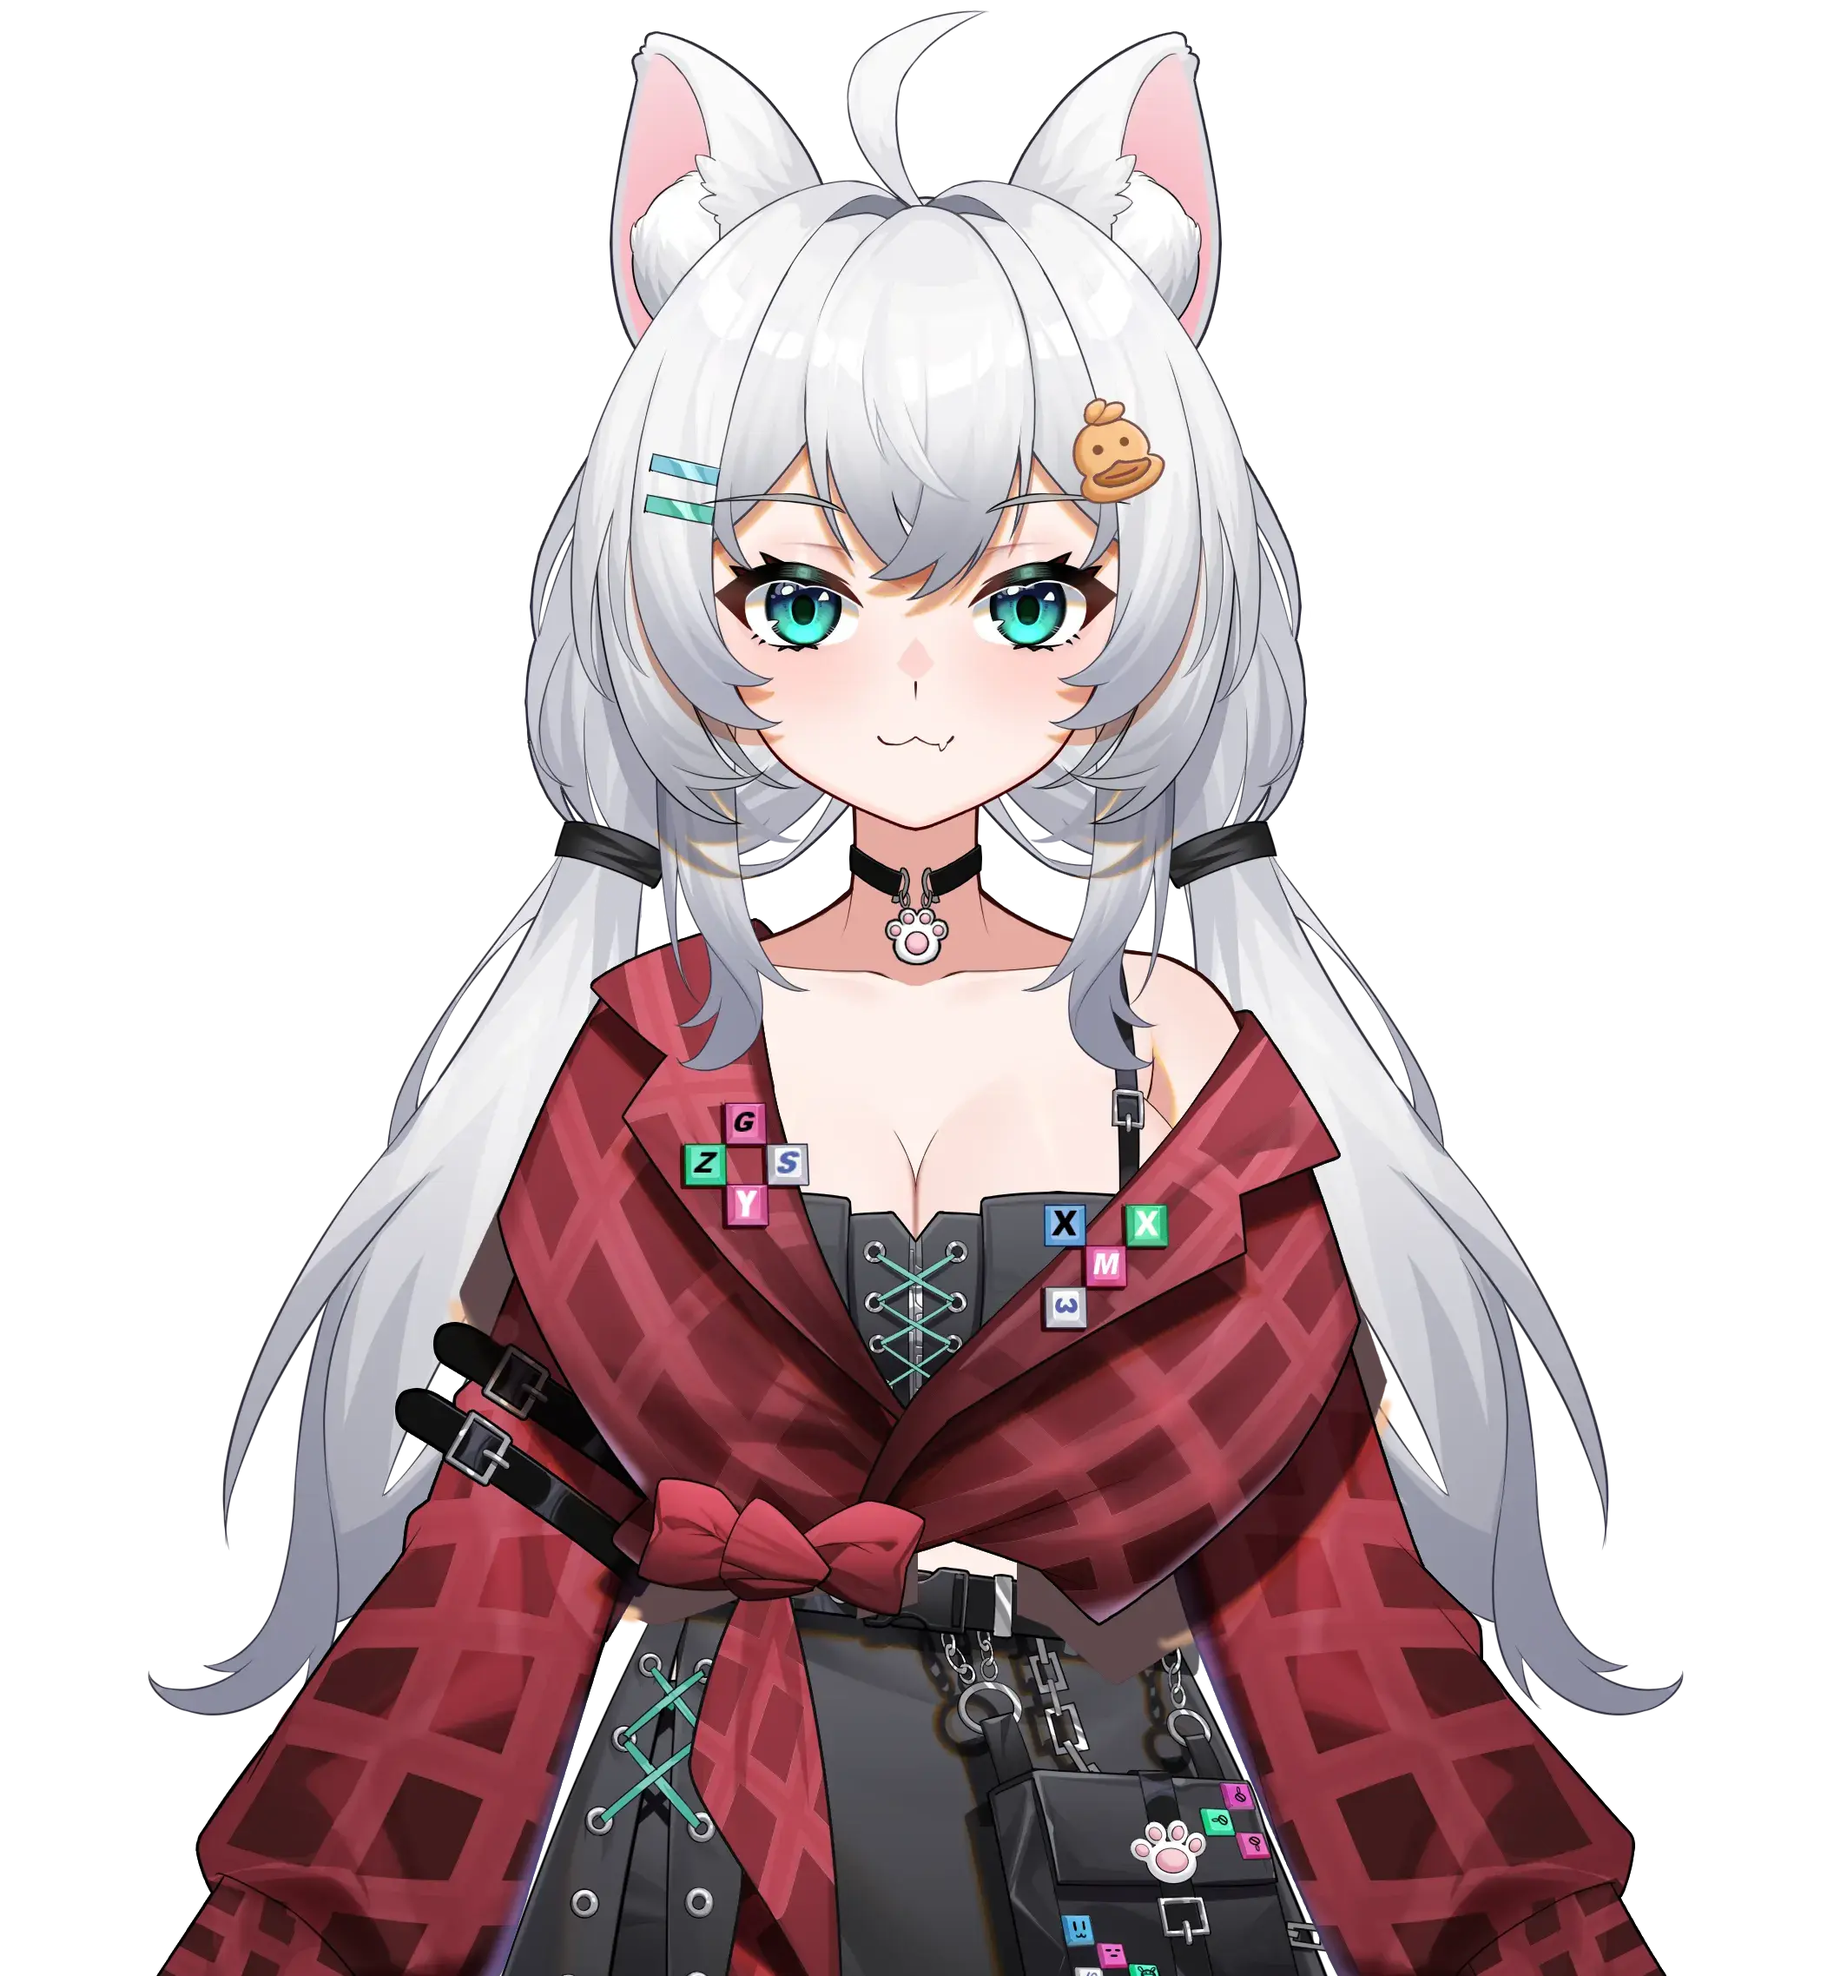
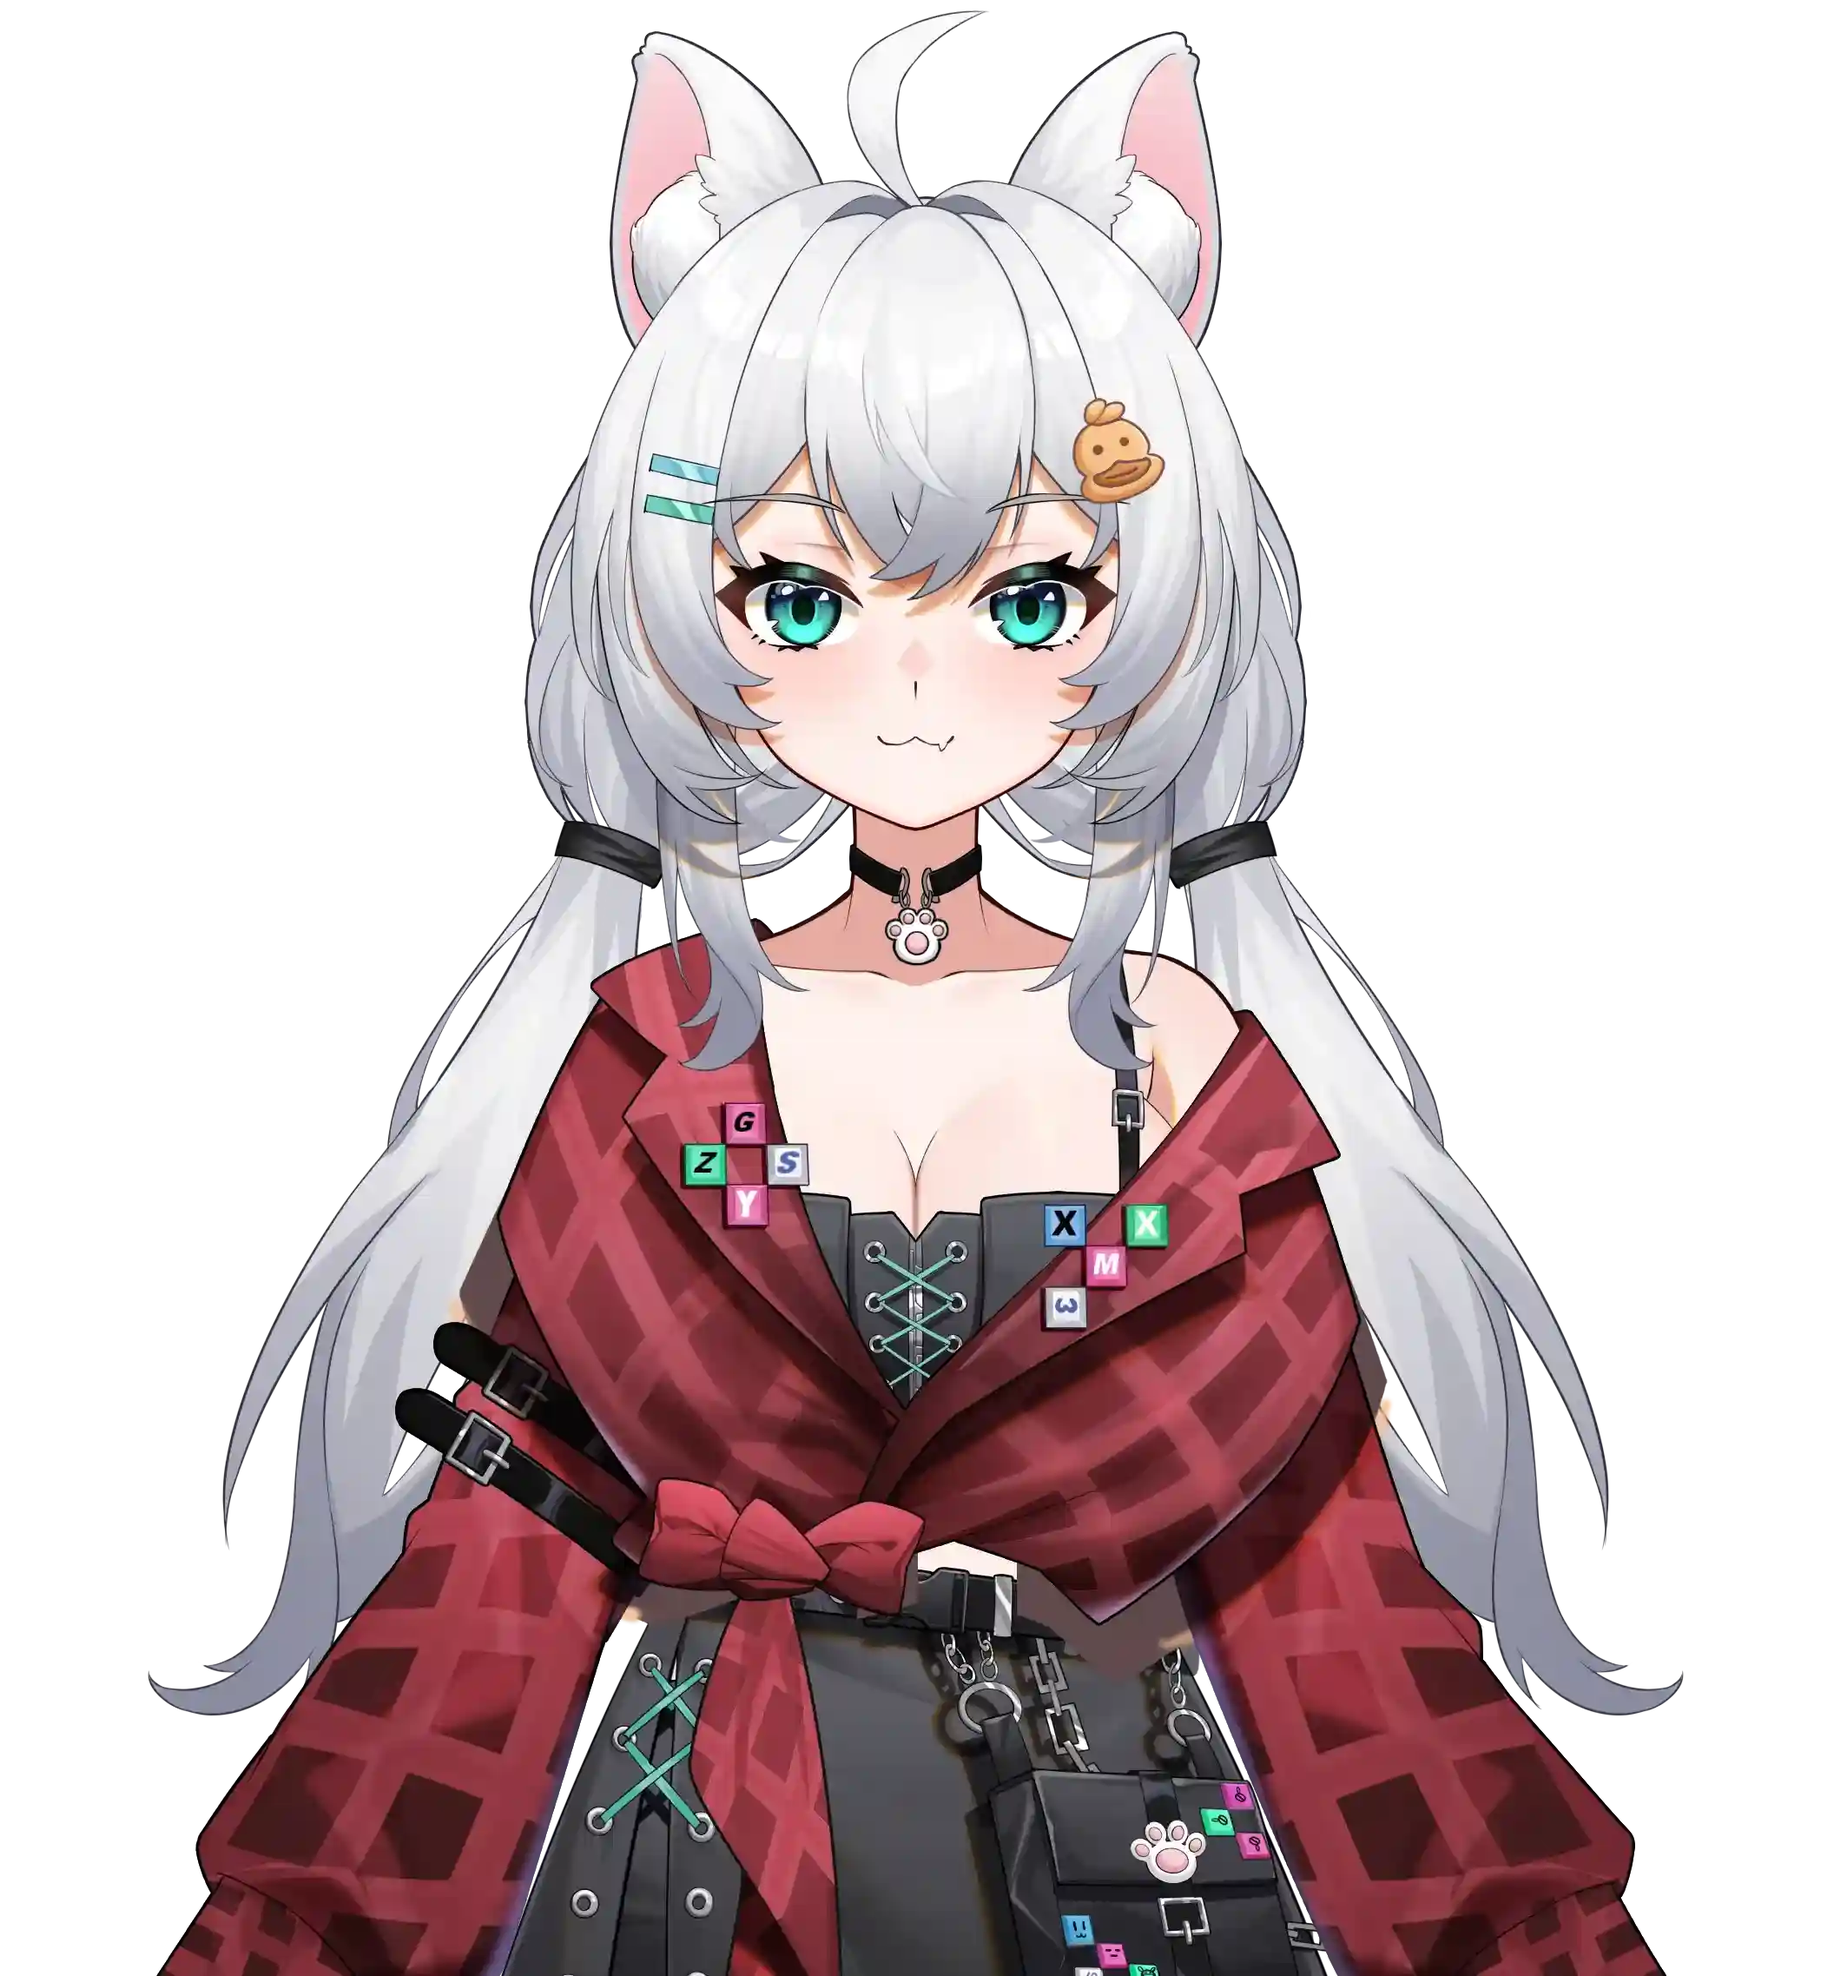
feat: 前景放到人物上层
feat: 优化人物图片大小

fix: 删除不用的样式

Changed region(s): [[0.6562, 0.9051, 0.6875, 0.9363]]

diff --git a/index.html b/index.html
@@ -12,19 +12,32 @@
     <style>
         html,
         body,
-        #scene {
+        #scene1,
+	#scene2 {
             height: 100%;
             width: 100%;
             margin: 0;
             overflow: hidden;
+	    position: fixed;
         }
 
-        .bg-img, .fg-img {
+        .bg-img {
             width: 125%;
             height: 125%;
             translate: -10% -10%;
             object-fit: cover;
+	    filter: blur(5px);
         }
+
+	.fg-img {
+            width: 120%;
+            height: 90%;
+	    position: absolute !important;
+	    right: 0;
+	    left: unset !important;
+            translate: 10% -5%;
+            object-fit: cover;
+	}
 
         .mask {
             position: fixed;
@@ -76,6 +89,7 @@
             color: white;
             font-size: 5rem;
             font-family: sans-serif;
+	    text-shadow: 10px 10px 10px #000000;
         }
 
         .navbar {
@@ -86,6 +100,7 @@
             display: flex;
             justify-content: space-between;
             align-items: center;
+	    text-shadow: 1px 1px 10px #000000;
         }
 
         .navbar a {
@@ -108,34 +123,39 @@
 	    height: 1.2rem;
 	    width: 1.2rem;
 	    padding: 0.1rem 0.3rem;
+	    filter: drop-shadow(0 0 3px #000000);
 	}
     </style>
 </head>
 
 <body>
-    <div id="scene">
+    <div id="scene1">
         <img class="bg-img" data-depth="0.5" alt="背景" src="./static/image/bg.webp" />
-        <img class="fg-img" data-depth="0.3" alt="前景" src="./static/image/fg.webp" />
     </div>
     <div id="bg-mask" class="mask"></div>
+    <img class="character-img" alt="人物" src="./static/image/character.webp" />
+    <div id="scene2">
+        <img class="fg-img" data-depth="0.3" alt="前景" src="./static/image/fg.webp" />
+    </div>
     <div class="navbar">
 	<a href="https://songlist.showee.live" target="_blank">
-	    <img aria-hidden="true" src="./static/image/align-justify.svg" />
+	    <img aria-hidden="true" alt="" src="./static/image/align-justify.svg" />
 	    歌单
 	</a>
 	<a href="https://captain.showee.live" target="_blank">
-	    <img aria-hidden="true" src="./static/image/pie-chart.svg" />
+	    <img aria-hidden="true" alt="" src="./static/image/pie-chart.svg" />
 	    统计
 	</a>
     </div>
     <h1 class="title">SHOWEE</h1>
-    <img class="character-img" alt="人物" src="./static/image/character.webp" />
     <script>
 	const body = document.body;
 	document.addEventListener('DOMContentLoaded', function() {
-	    const parallaxInstance = new Parallax(document.getElementById("scene"));
+	    const parallaxInstance1 = new Parallax(document.getElementById("scene1"));
+	    const parallaxInstance2 = new Parallax(document.getElementById("scene2"));
 	    function recalc() {
-	        parallaxInstance.limit(body.clientWidth * 0.2, body.clientHeight * 0.2)
+	        parallaxInstance1.limit(body.clientWidth * 0.2, body.clientHeight * 0.2)
+	        parallaxInstance2.limit(body.clientWidth * 0.2, body.clientHeight * 0.2)
 	    }
 	    const observer = new ResizeObserver(recalc)
 	    observer.observe(body)
